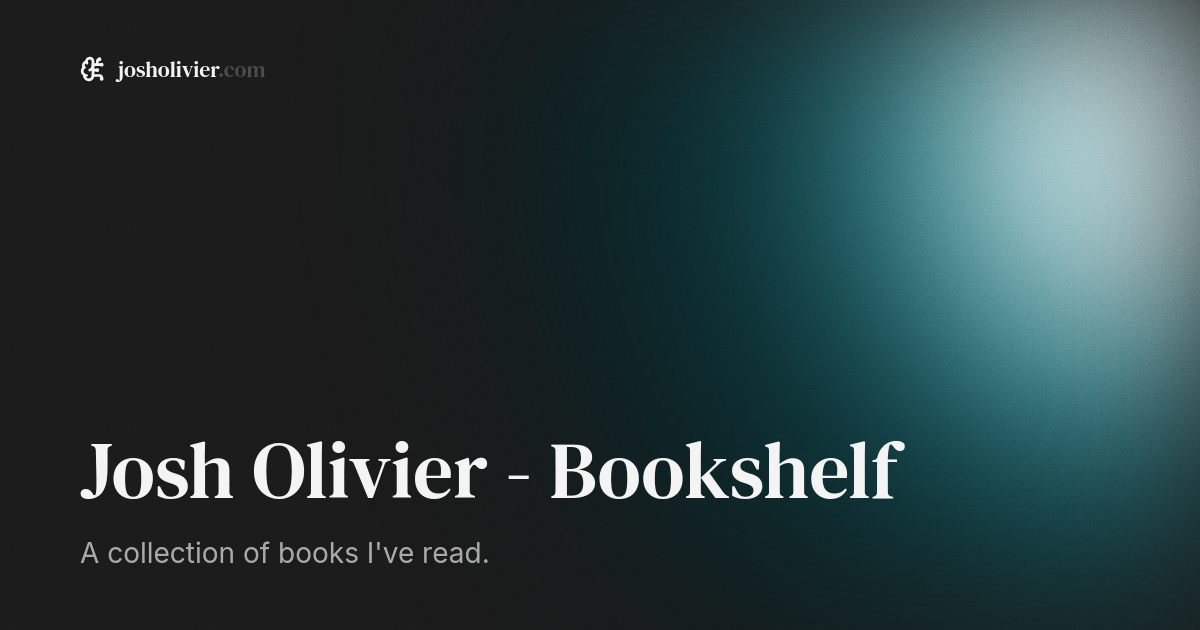
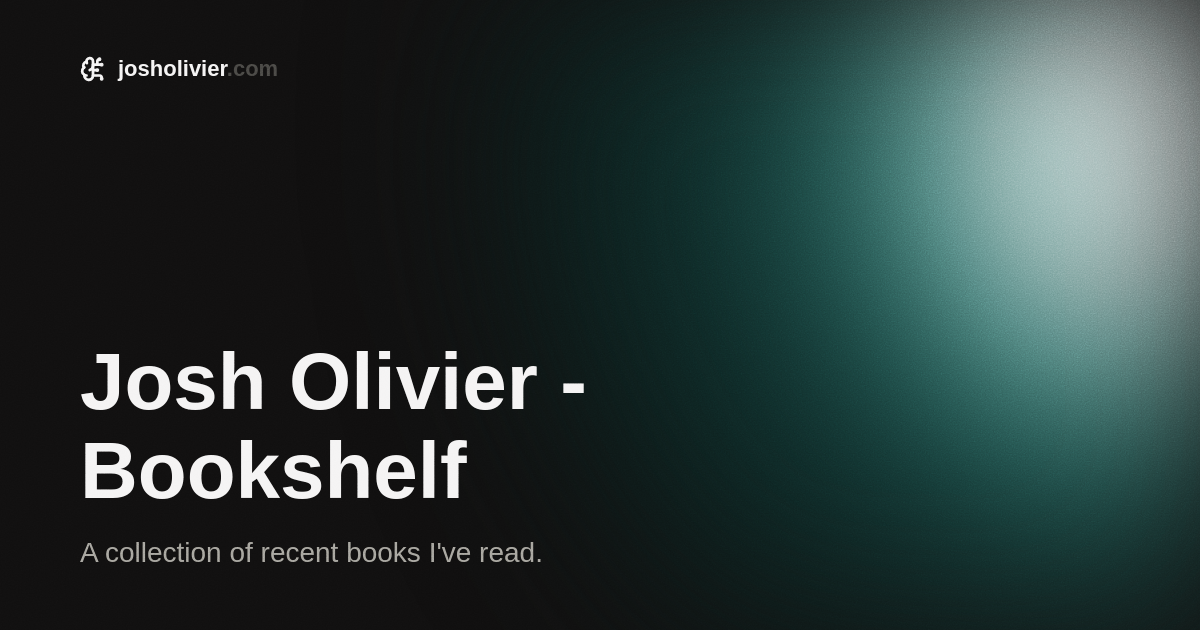
feat: update social cards images and enhance bookshelf and contact pages with new content and styling

diff --git a/src/styles/global.css b/src/styles/global.css
@@ -276,11 +276,11 @@ html:not(.dark) {
       position: relative;
       overflow: hidden;
       isolation: isolate;
-      border-radius: 0 0  7px 7px;
       background: var(--bg-primary);
       margin: 0 1rem 1rem;
-      min-height: 90px;
+      min-height: 180px;
       will-change: transform;
+      border-radius: 0 0 7px 7px;
     }
 
     .page-title-block {
@@ -292,13 +292,6 @@ html:not(.dark) {
       margin-bottom: 1rem;
     }
 
-    @media (max-width: 639px) {
-      .page-banner {
-        margin: 0 0 1rem;
-        border-radius: 0;
-        min-height: 180px;
-      }
-    }
 
     .page-banner::before {
       content: '';
@@ -314,6 +307,7 @@ html:not(.dark) {
         transparent 55%
       );
       filter: blur(90px);
+      mask-image: radial-gradient(circle at 100% 20%, black 0%, black 60%, transparent 85%);
       pointer-events: none;
       z-index: 0;
       border-radius: inherit;
@@ -374,6 +368,7 @@ html:not(.dark) {
     /* ── Page banner: mobile ── */
     @media (max-width: 639px) {
       .page-banner {
+        margin: 0 0 1rem;
         min-height: 180px;
         border-radius: 0px;
         display: flex;
@@ -481,7 +476,7 @@ html:not(.dark) {
     /* On pages with a hero banner (index.astro), the header sits flush
        against the banner below it, so its bottom corners stay square. */
     .page-wrapper:has(.page-banner) header {
-      border-radius: 0;
+      border-radius: 0px;
     }
 
     .center-title {
@@ -1992,11 +1987,6 @@ html:not(.dark) .sort-icon-btn.active {
   .nav-links a.active {
     color: var(--text-heading);
     background-color: var(--bg-primary);
-  }
-
-  .page-banner {
-    border-radius: 0;
-    border-bottom: 1px solid var(--bg-border);
   }
 
   .expanded a {

diff --git a/scripts/generate-social-cards.ts b/scripts/generate-social-cards.ts
@@ -3,7 +3,7 @@ import { join } from "path";
 import { PAGE_META } from "../src/data/page-meta.js";
 
 // Load .env file manually so credentials never need to be typed in the terminal
-const envPath = join(process.cwd(), ".env");
+const envPath = join(process.cwd(), ".env");  
 if (existsSync(envPath)) {
   for (const line of readFileSync(envPath, "utf-8").split("\n")) {
     const trimmed = line.trim();
@@ -100,7 +100,7 @@ async function captureScreenshot(
       body: JSON.stringify({
         url: pageUrl,
         viewport: { width: 1200, height: 630 },
-        gotoOptions: { waitUntil: "networkidle0" },
+        gotoOptions: { waitUntil: "networkidle2" },
       }),
     });
 
